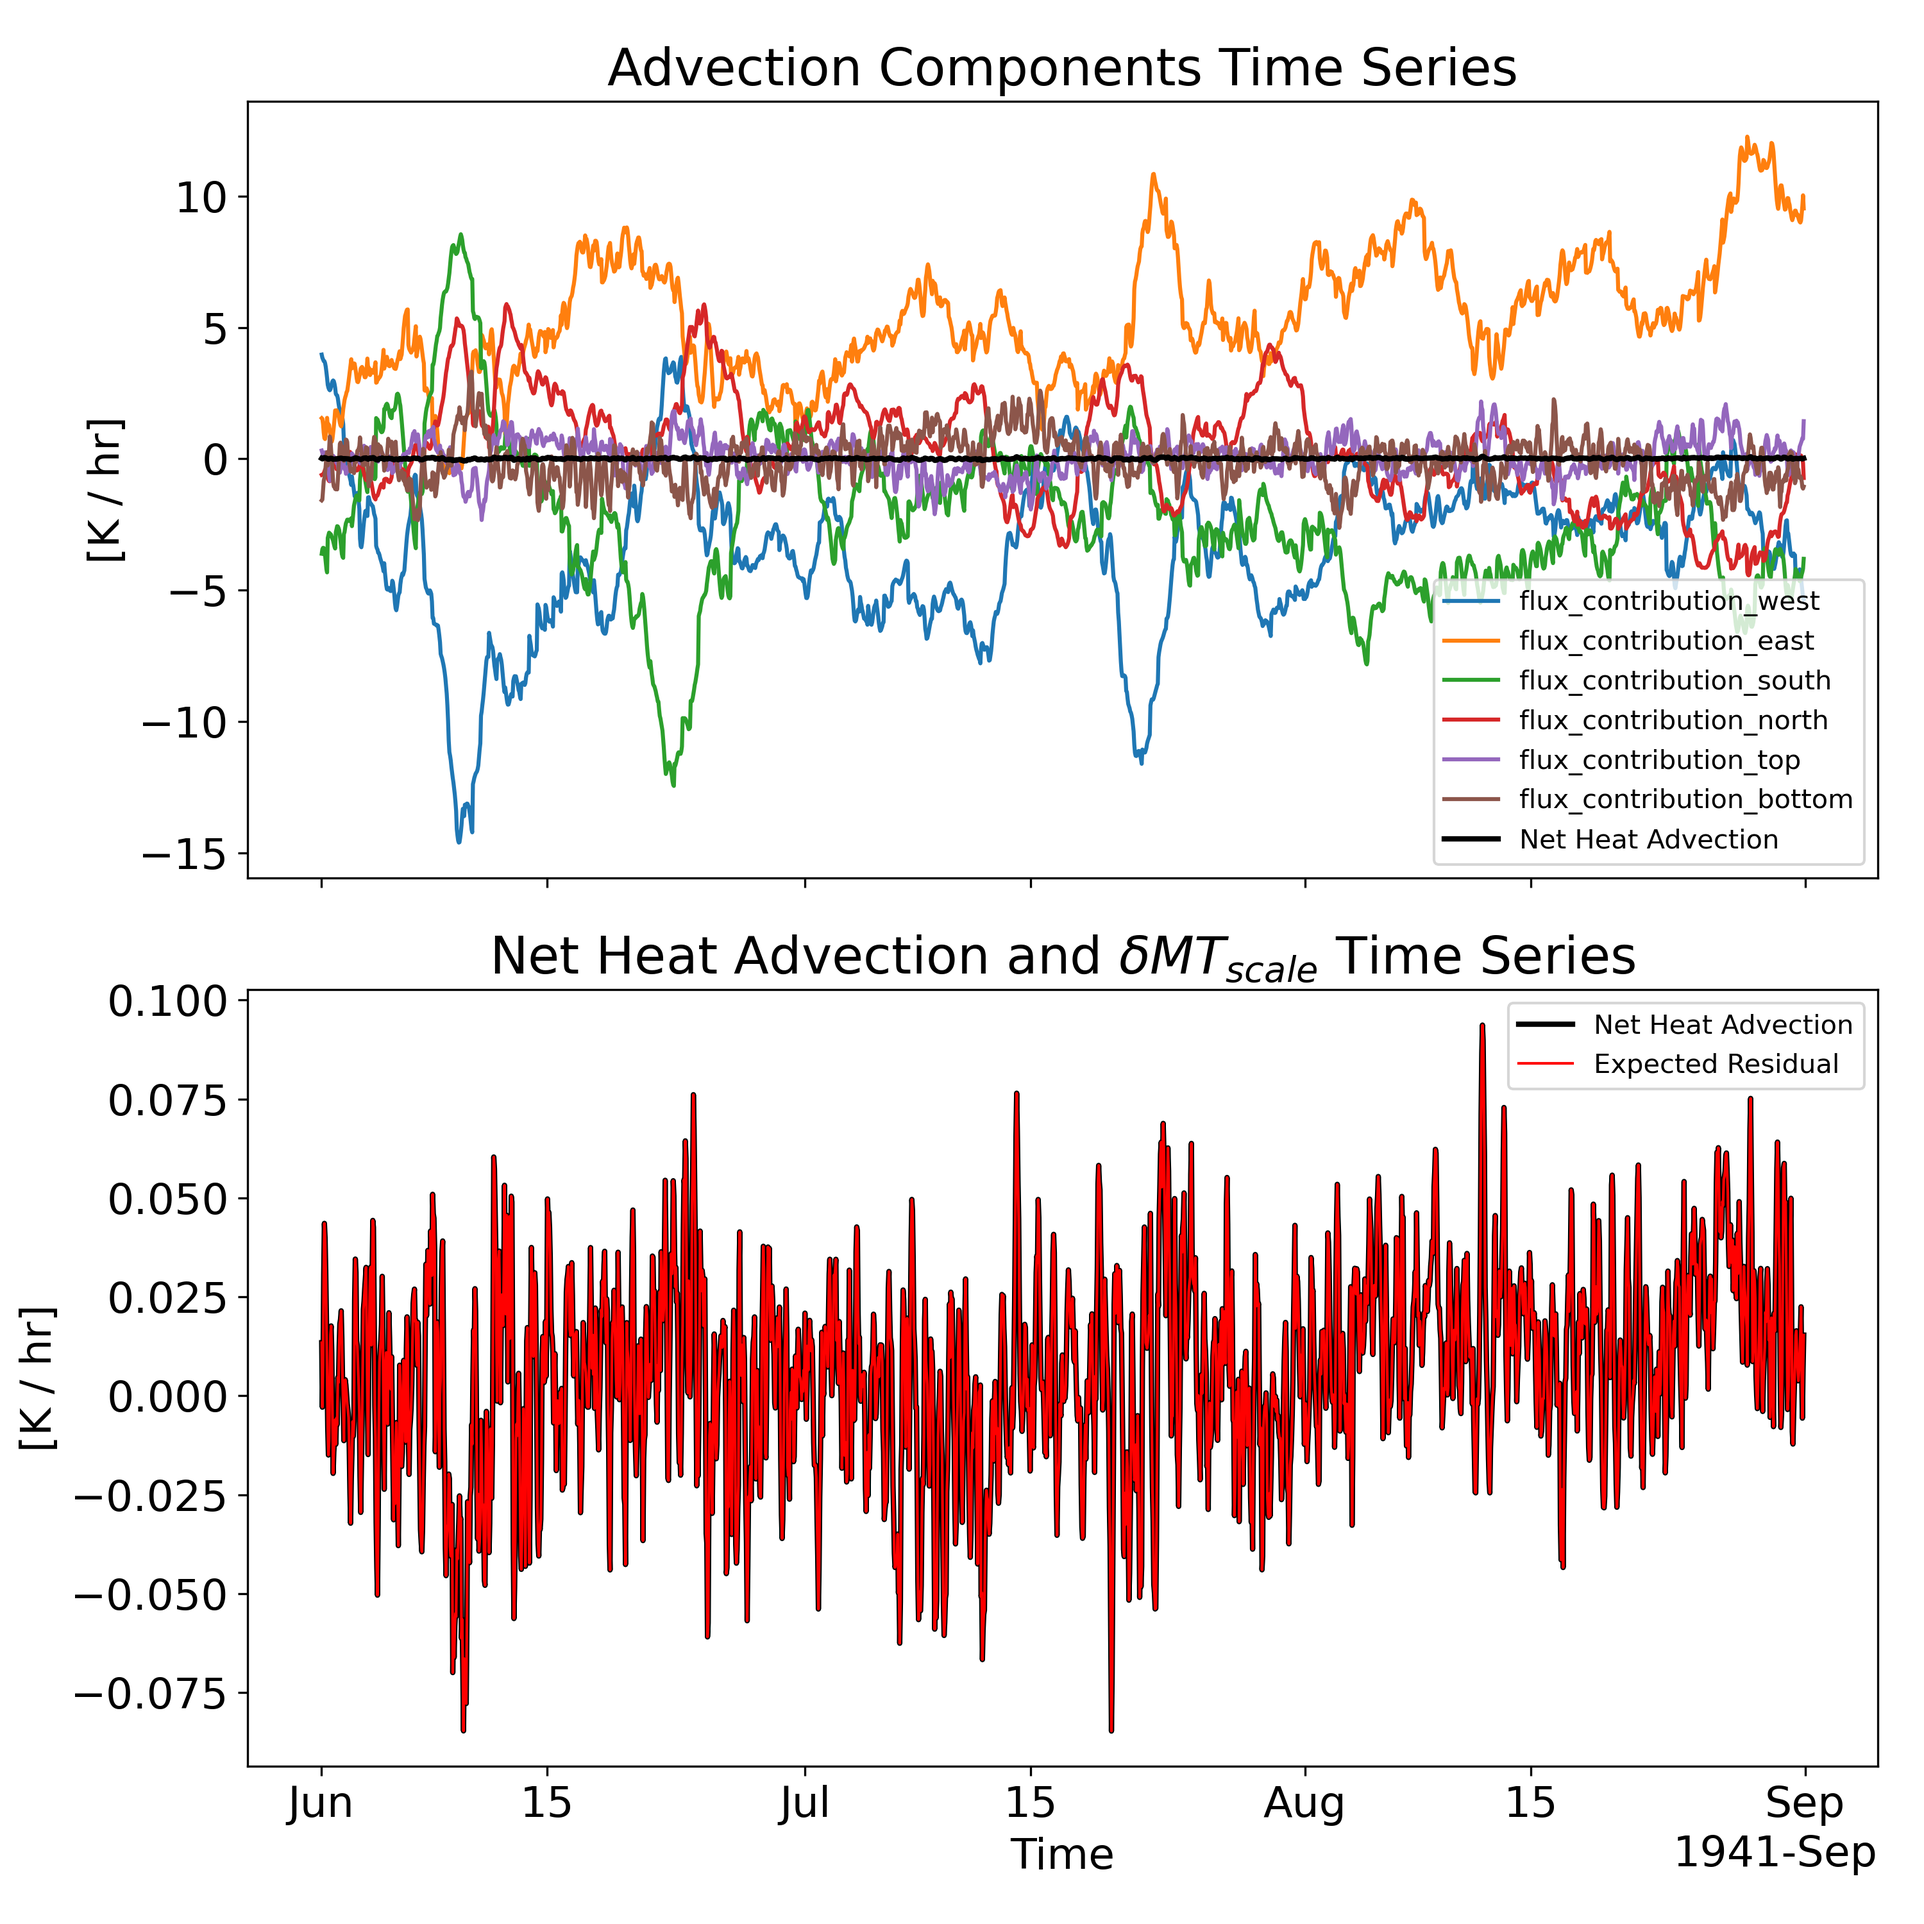
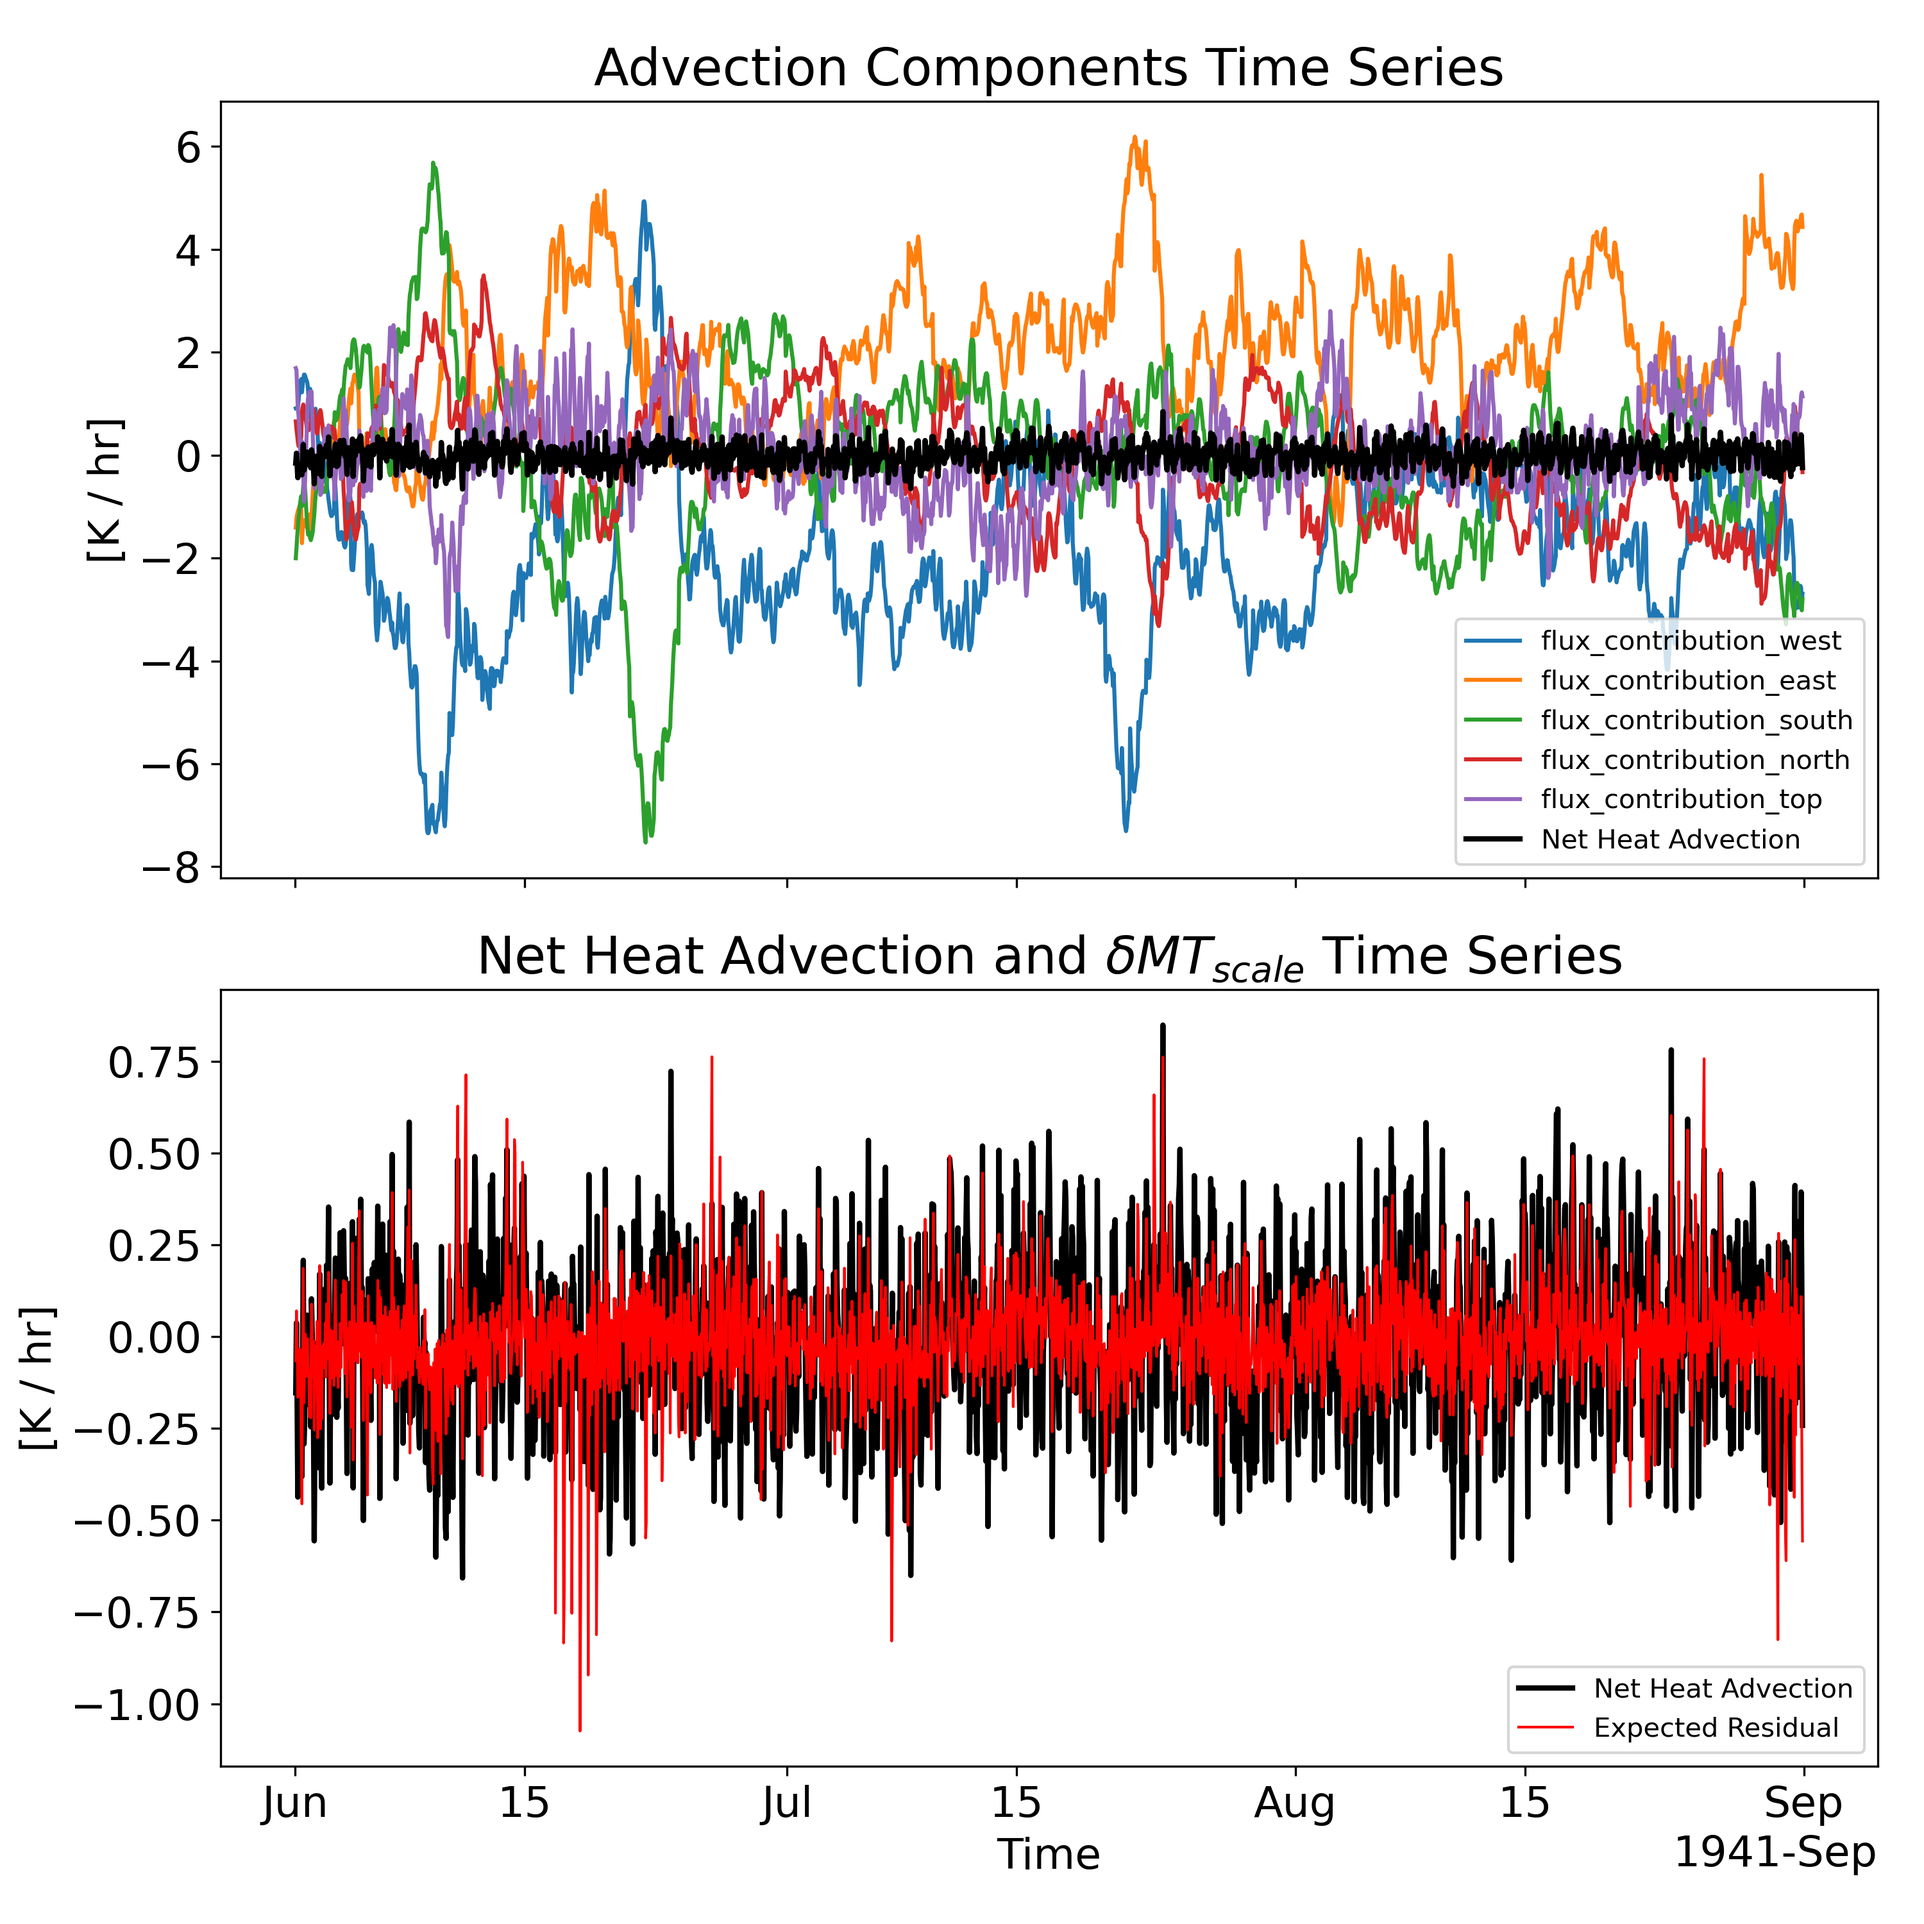
added git ignore.

diff --git a/src/config.py b/src/config.py
@@ -24,7 +24,7 @@ DEFAULT_BBOX          = (40, 60, -130, -110) # lat_min, lat_max, lon_min, lon_ma
 
 DEFAULT_MARGIN_N: int = 1 # number of grid points to keep as margin when determining domain extent
 
-DEFAULT_ZG_BOT_MODE = "pressure_level" #"pressure_level" # or "surface_pressure"
+DEFAULT_ZG_BOT_MODE = "surface_pressure" #"pressure_level" # or "surface_pressure"
 
 # set True if "surface_pressure" is used as bottom boundary for geopotential height budget
 # else False if "pressure_level"
@@ -33,6 +33,6 @@ DEFAULT_ALLOW_BOTTOM_OVERFLOW = False # allow bottom layer weights to exceed 1 i
 # pressure levels for geopotential height domain boundaries (in Pa)
 # zg_bottom_pressure only used if zg_bottom == "pressure_level"; else surface pressure determines bottom boundary
 DEFAULT_ZG_BOT_PA: float = 600 * 100 # lower boundary pressure for geopotential height budget in Pa
-DEFAULT_ZG_TOP_PA: float = 300 * 100 # upper boundary pressure for geopotential height budget in Pa
+DEFAULT_ZG_TOP_PA: float = 600 * 100 # upper boundary pressure for geopotential height budget in Pa
 
 DEFAULT_PLOTS_OUTPUT:str = "/home/mhpereir/eulerian_heat_budget/results/plots"
